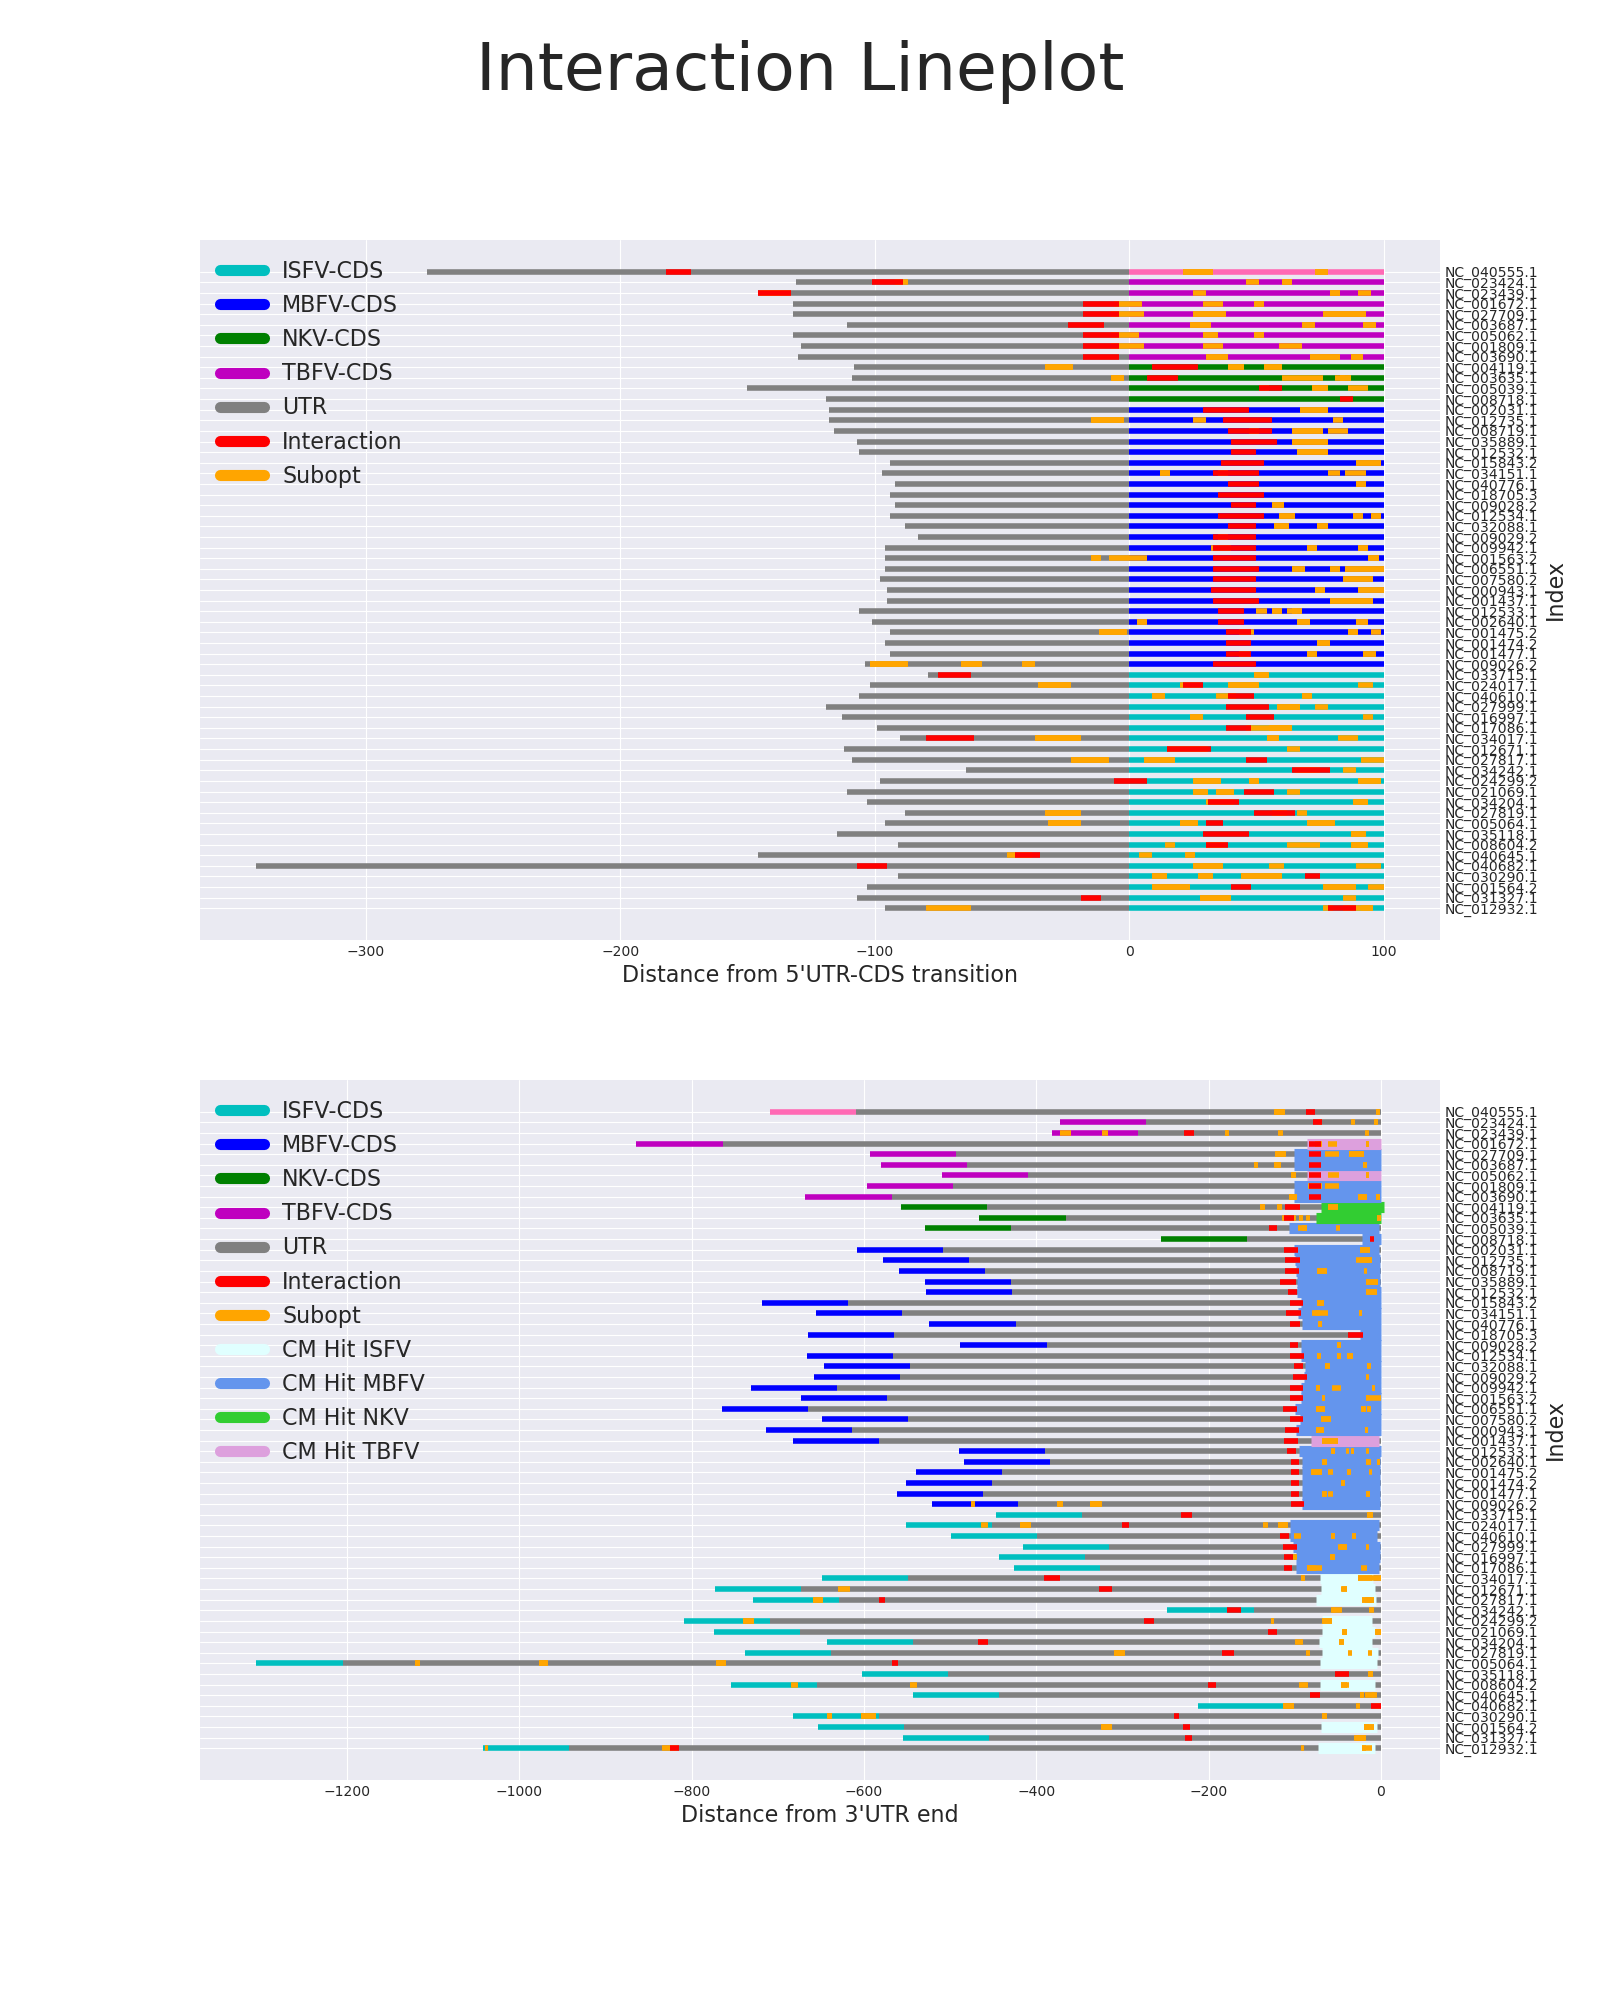
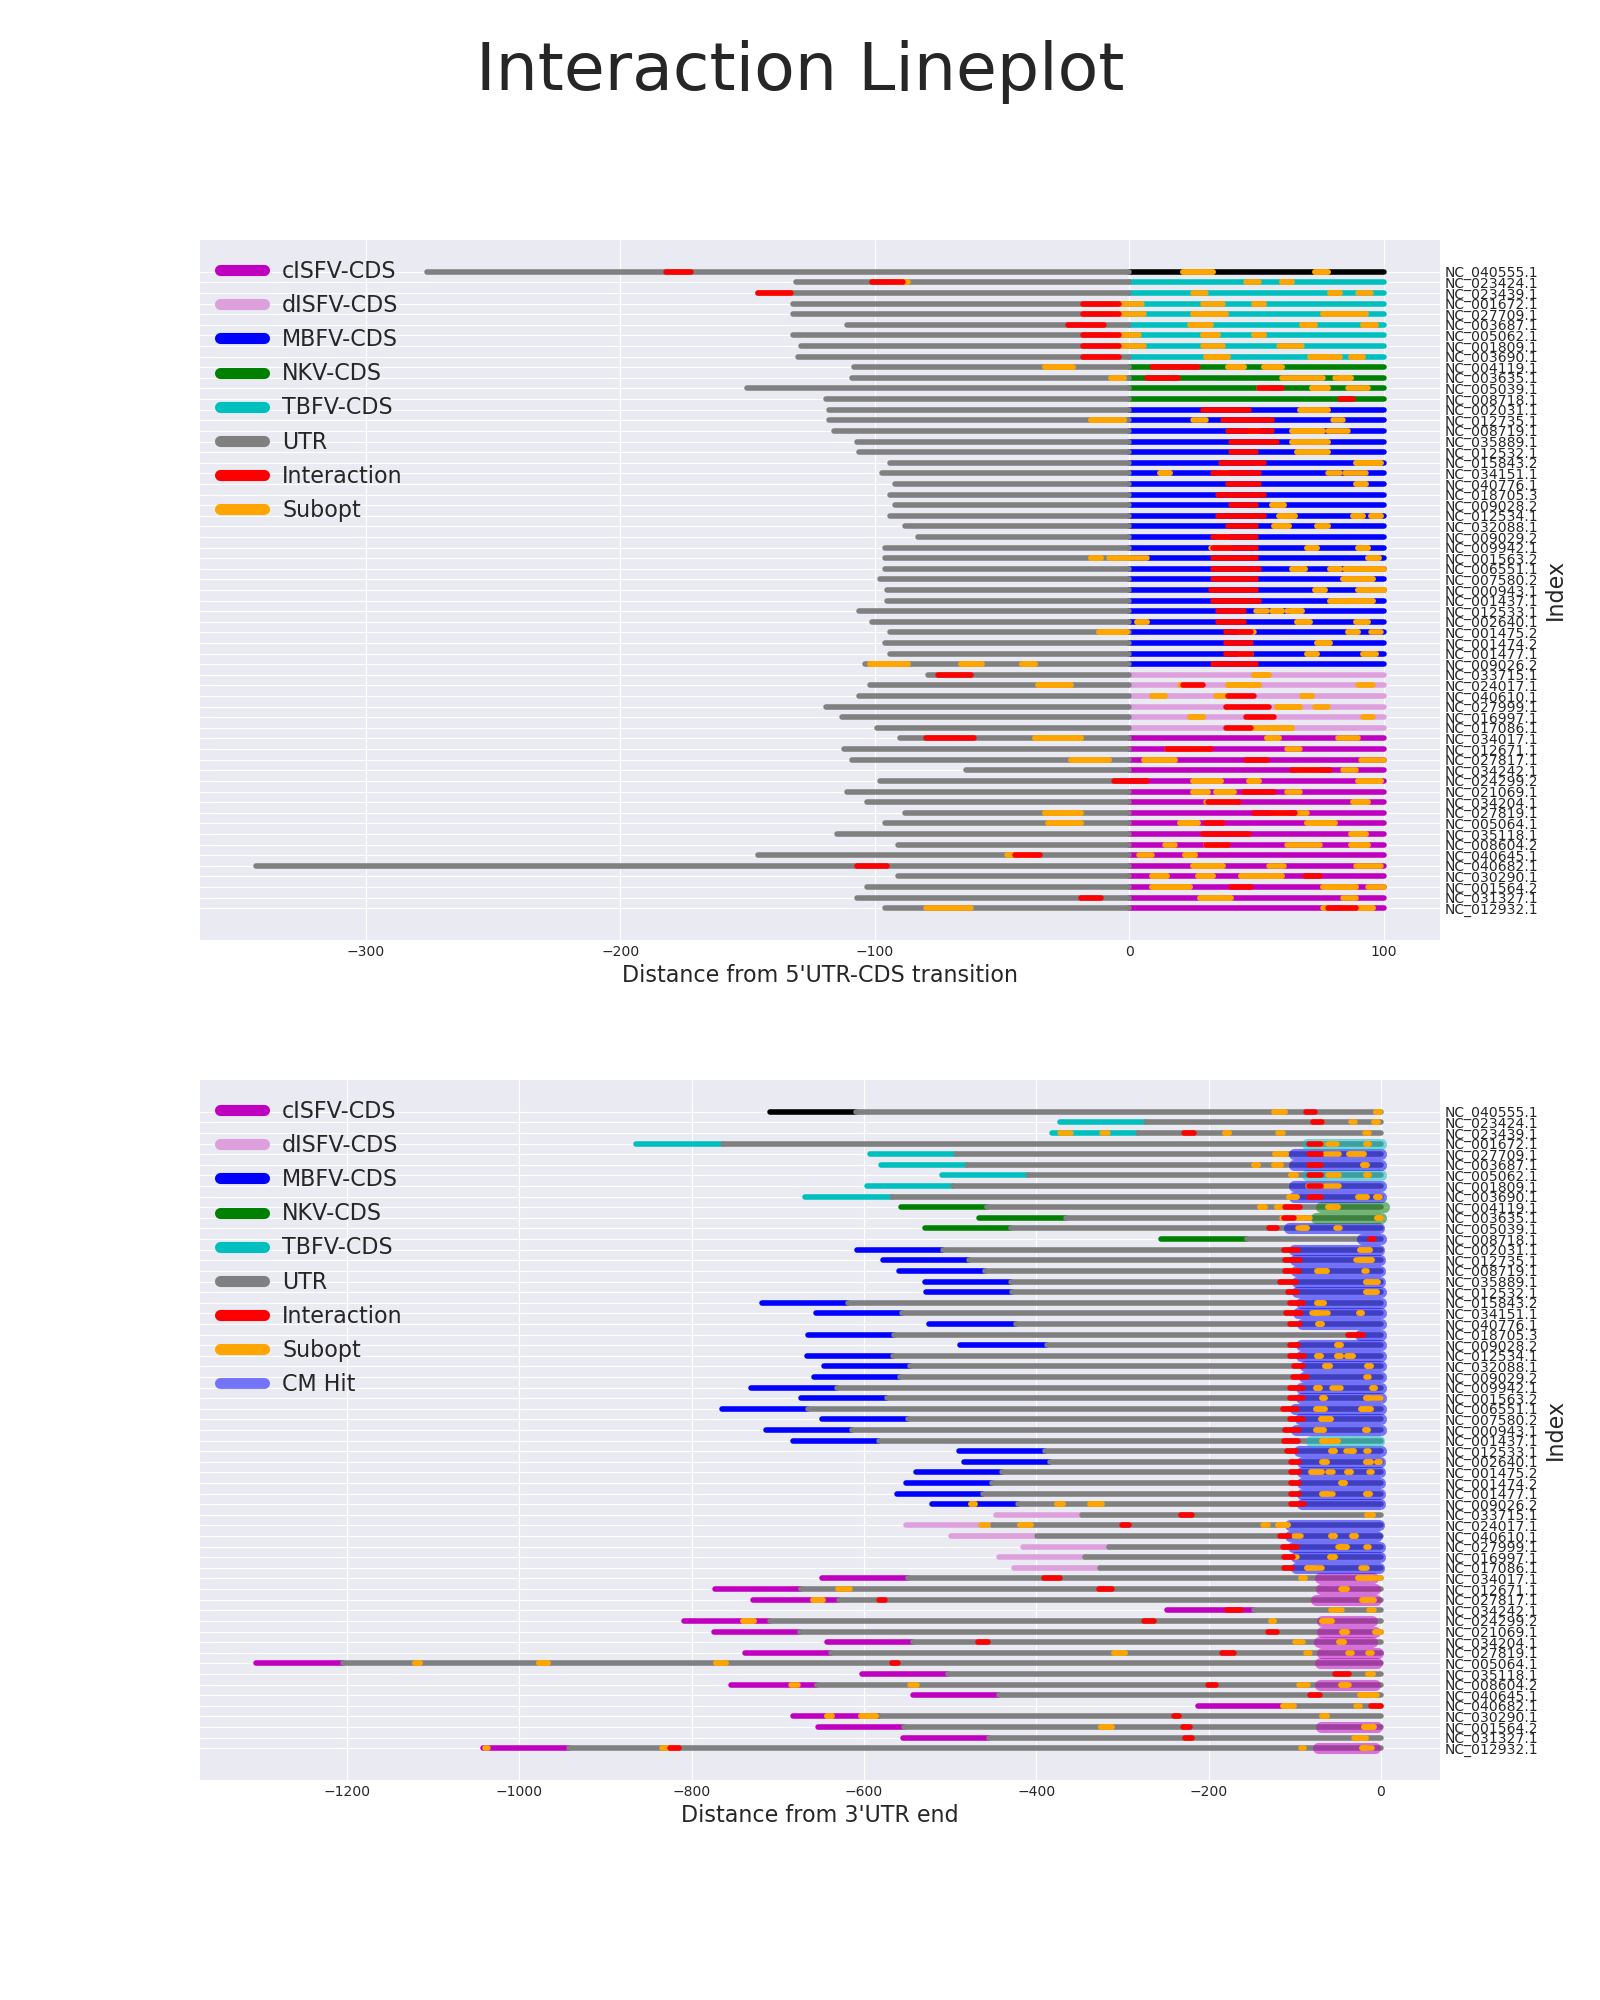
Rewrote Lineplot script and split cISFV/dISFV

diff --git a/Codes/evaluation.py b/Codes/evaluation.py
@@ -10,12 +10,15 @@ from collections import defaultdict
 
 
 main_colours = {"UTR": "gray", "interaction" : "red", "subopt": "orange"}
-CDS_colours = defaultdict(lambda:"hotpink")
-CMS_hit_colours = defaultdict(lambda:"hotpink")
-for k, v in [("ISFV","c"),("MBFV","blue"),("NKV","green"),("TBFV","m")]:
+CDS_colours = defaultdict(lambda:"black")
+for k, v in [("ISFV","m"), ("cISFVG","m"), ("dISFVG","plum"),("MBFV","blue"),("NKV","green"),("TBFV","c")]:
     CDS_colours[k] = v
-for k, v in [("ISFV","lightcyan"),("MBFV","cornflowerblue"),("NKV","limegreen"),("TBFV","plum")]:
-    CMS_hit_colours[k] = v
+linewidths = {"UTR": 4,
+              "CDS": 4,
+              "CMHit": 8,
+              "Subopt": 4,
+              "Interaction": 4
+              }
 
 def draw_lineplots(df, extra_bases_roi, output):
     """
@@ -37,43 +40,39 @@ def draw_lineplots(df, extra_bases_roi, output):
         q_tuple = ast.literal_eval(row["q_inter_range"])
         line5sub = []
         line3sub = []
-        for suboptt in ast.literal_eval(row["suboptts"]): ## Subopt stuff..
+        ## Plot CDS:
+        ## Differentiate between cISFVG and dISFVG
+        cds_colour = CDS_colours[row["type"]] if row["class"] == "ISFV" else  CDS_colours[row["class"]]
+        side5.plot((0, extra_bases_roi), (index, index), 
+                   linewidth=linewidths["CDS"], color=cds_colour)
+        side3.plot((0 - row["UTR3len"], -extra_bases_roi - row["UTR3len"]), (index, index), 
+                   linewidth=linewidths["CDS"], color=cds_colour)
+        ## Plot UTR:
+        side5.plot((0, -row["UTR5len"]), (index, index), 
+                   linewidth=linewidths["UTR"], color=main_colours["UTR"])
+        side3.plot((0 - row["UTR3len"], 0), (index, index), 
+                   linewidth=linewidths["UTR"], color=main_colours["UTR"])
+        ## Plot CM hits:
+        if "cm_hit_f" in row and not math.isnan(row["cm_hit_f"]):
+            side3.plot((row["cm_hit_f"] - row["UTR3len"], row["cm_hit_t"] - row["UTR3len"]), (index, index), 
+                       linewidth=linewidths["CMHit"], color=CDS_colours[row["cm_hit_src"]], alpha=0.5)
+        ## Plot Subopt Interactions:
+        for suboptt in ast.literal_eval(row["suboptts"]): ## 5' Subopt stuff..
             if suboptt:
                 for subopt in suboptt:
-                    line5sub.append(((subopt[0], index),
-                              (subopt[1], index)))
-        subopt_len5 = len(line5sub)
-        for suboptq in ast.literal_eval(row["suboptqs"]): ## Subopt stuff..
+                    side5.plot((subopt[0], subopt[1]), (index, index), 
+                               linewidth=linewidths["Subopt"], color=main_colours["subopt"])
+        for suboptq in ast.literal_eval(row["suboptqs"]): ## 3' Subopt stuff..
             if suboptq:
                 for subopt in suboptq:
-                    line3sub.append(((subopt[0] - row["UTR3len"], index),
-                                     (subopt[1] - row["UTR3len"], index))) 
-        subopt_len3 = len(line3sub)
-        line5 = [((0, index), (extra_bases_roi, index)), ## CDS
-                 ((0, index), (-row["UTR5len"], index))] ## 5'UTR
-        line3 = [((0 - row["UTR3len"], index), (-extra_bases_roi - row["UTR3len"], index)), ## CDS
-                 ((0 - row["UTR3len"], index), (0, index))] ## 3'UTR
-        if math.isnan(row["cm_hit_f"]):
-            cmsearch_hit = 0
-        else:
-            cmsearch_hit = 1
-            line3 += [((row["cm_hit_f"] - row["UTR3len"], index),
-                       (row["cm_hit_t"] - row["UTR3len"], index))] ## CM Hit
-        line5 += line5sub ## Subopt
-        line3 += line3sub ## Subopt
-        line5 += [((t_tuple[0], index),
-                  (t_tuple[1], index))] ## Main Interaction
-        line3 += [((q_tuple[0] - row["UTR3len"], index),
-                 (q_tuple[1] - row["UTR3len"], index))] ## Main Interaction
-        colours5 = [CDS_colours[row["class"]]] + [main_colours["UTR"]] + [main_colours["subopt"]]*subopt_len5 + [main_colours["interaction"]]
-        if cmsearch_hit:
-            colours3 = [CDS_colours[row["class"]]] + [main_colours["UTR"]] + [CMS_hit_colours[row["cm_hit_src"]]] + [main_colours["subopt"]]*subopt_len3 + [main_colours["interaction"]]
-        else:
-            colours3 = [CDS_colours[row["class"]]] + [main_colours["UTR"]] + [main_colours["subopt"]]*subopt_len3 + [main_colours["interaction"]]
-        linewidths5 = [4] + [4] + [4]*subopt_len5 + [4]
-        linewidths3 = [4] + [4] + [8]*cmsearch_hit + [4]*subopt_len3 + [4]
-        side5.add_collection(LineCollection(line5, colors=colours5, linewidths=linewidths5))
-        side3.add_collection(LineCollection(line3, colors=colours3, linewidths=linewidths3))
+                    side3.plot((subopt[0] - row["UTR3len"], subopt[1] - row["UTR3len"]), (index, index), 
+                               linewidth=linewidths["Subopt"], color=main_colours["subopt"])
+        ## Plot Main Interactions:
+        side5.plot((t_tuple[0], t_tuple[1]), (index, index), 
+                   linewidth=linewidths["Interaction"], color=main_colours["interaction"])
+        side3.plot((q_tuple[0] - row["UTR3len"], q_tuple[1] - row["UTR3len"]), (index, index), 
+                   linewidth=linewidths["Interaction"], color=main_colours["interaction"])
+    ## Annotations:
     side5.set_xlabel("Distance from 5'UTR-CDS transition", fontsize=16)
     side3.set_xlabel("Distance from 3'UTR end", fontsize=16)
     side5.set_ylabel("Index", fontsize=16)
@@ -83,25 +82,22 @@ def draw_lineplots(df, extra_bases_roi, output):
     side3.yaxis.set_label_position("right")
     side3.yaxis.tick_right()
 
-    #print(list(df["id"]))
     side5.set_yticks(np.arange(len(df["id"])))
     side5.set_yticklabels(list(df["id"]))
     side3.set_yticks(np.arange(len(df["id"])))
     side3.set_yticklabels(list(df["id"]))
     side5.autoscale_view()
     side3.autoscale_view()
-    legend_elements = [Line2D([0], [0], color=CDS_colours["ISFV"], lw=8, label='ISFV-CDS'),
+    legend_elements = [Line2D([0], [0], color=CDS_colours["cISFVG"], lw=8, label='cISFV-CDS'),
+                       Line2D([0], [0], color=CDS_colours["dISFVG"], lw=8, label='dISFV-CDS'),
                        Line2D([0], [0], color=CDS_colours["MBFV"], lw=8, label='MBFV-CDS'),
                        Line2D([0], [0], color=CDS_colours["NKV"], lw=8, label='NKV-CDS'),
                        Line2D([0], [0], color=CDS_colours["TBFV"], lw=8, label='TBFV-CDS'),
                        Line2D([0], [0], color='gray', lw=8, label='UTR'),
                        Line2D([0], [0], color='r', lw=8, label='Interaction'),
                        Line2D([0], [0], color='orange', lw=8, label='Subopt'),
-                       Line2D([0], [0], color=CMS_hit_colours["ISFV"], lw=8, label='CM Hit ISFV'),
-                       Line2D([0], [0], color=CMS_hit_colours["MBFV"], lw=8, label='CM Hit MBFV'),
-                       Line2D([0], [0], color=CMS_hit_colours["NKV"], lw=8, label='CM Hit NKV'),
-                       Line2D([0], [0], color=CMS_hit_colours["TBFV"], lw=8, label='CM Hit TBFV'),]
-    side5.legend(handles=legend_elements[:-4],loc="upper left", prop={"size": 16})
+                       Line2D([0], [0], color="blue", lw=8, label='CM Hit', alpha=0.5),]
+    side5.legend(handles=legend_elements[:-1],loc="upper left", prop={"size": 16})
     side3.legend(handles=legend_elements,loc="upper left", prop={"size": 16})
     plt.suptitle("Interaction Lineplot", fontsize=48)
     plt.savefig(output)

diff --git a/main.py b/main.py
@@ -43,16 +43,16 @@ static_d = {"energyVRNA": "Data/rna_andronescu2007.par",
 
 
 if __name__ == "__main__":
-    #write_static_parameters(static_d, static_param_path)
-    #create_parameter_table(database_path, extra_bases, parameter_table_file)
-    #main_intarna(static_param_path, extra_bases, extra_bases_roi,
-    #             parameter_table_file, IntaRNA_output, raw_IntaRNA_output,
-    #             outNumber)
+    write_static_parameters(static_d, static_param_path)
+    create_parameter_table(database_path, extra_bases, parameter_table_file)
+    main_intarna(static_param_path, extra_bases, extra_bases_roi,
+                 parameter_table_file, IntaRNA_output, raw_IntaRNA_output,
+                 outNumber)
     df = pd.read_csv(IntaRNA_output)
     ###create_cms(stockholm_directory, covariance_dir) ## Do not uncomment unless new data.
-    #df = cm_search(df, covariance_dir, database_path, cm_output)
-    #draw_lineplots(df, extra_bases_roi, line_plot)
-    #draw_energy_histo(df, energy_histo)
-    #draw_energy_histo_subopt(df, energy_histo)
+    df = cm_search(df, covariance_dir, database_path, cm_output)
+    draw_lineplots(df, extra_bases_roi, line_plot)
+    draw_energy_histo(df, energy_histo)
+    draw_energy_histo_subopt(df, energy_histo)
     ##get_alignment_sequences(parameter_table_file, IntaRNA_output, extra_bases)
     get_meme_sequences(parameter_table_file, meme_output, IntaRNA_output, extra_bases)

diff --git a/Codes/IntaRNA_code.py b/Codes/IntaRNA_code.py
@@ -127,6 +127,7 @@ def main_intarna(static_param_path, extra_bases, extra_bases_roi,
             suboptes.append((subopt1_e, subopt2_e))
     output["id"] = params["id"]
     output["class"] = params["class"]
+    output["type"] = params["type"]
     output["UTR5len"] = params["UTR5len"]
     output["CDSlen"] = params["CDSlen"]
     output["UTR3len"] = params["UTR3len"]

diff --git a/Codes/alignment.py b/Codes/alignment.py
@@ -25,5 +25,3 @@ def get_alignment_sequences(param_df_path, inta_df_path, extra_bases):
         #print(row["q_inter_range"])
         #print(int_seq_5)
         #print(int_seq_3)
-        # Should be 78 on 5'side  but is 173 UTR5len = 96 => Add UTR5len
-        # Should be 117 on 3'side but is 316 => Add 200 (=extra bases)
